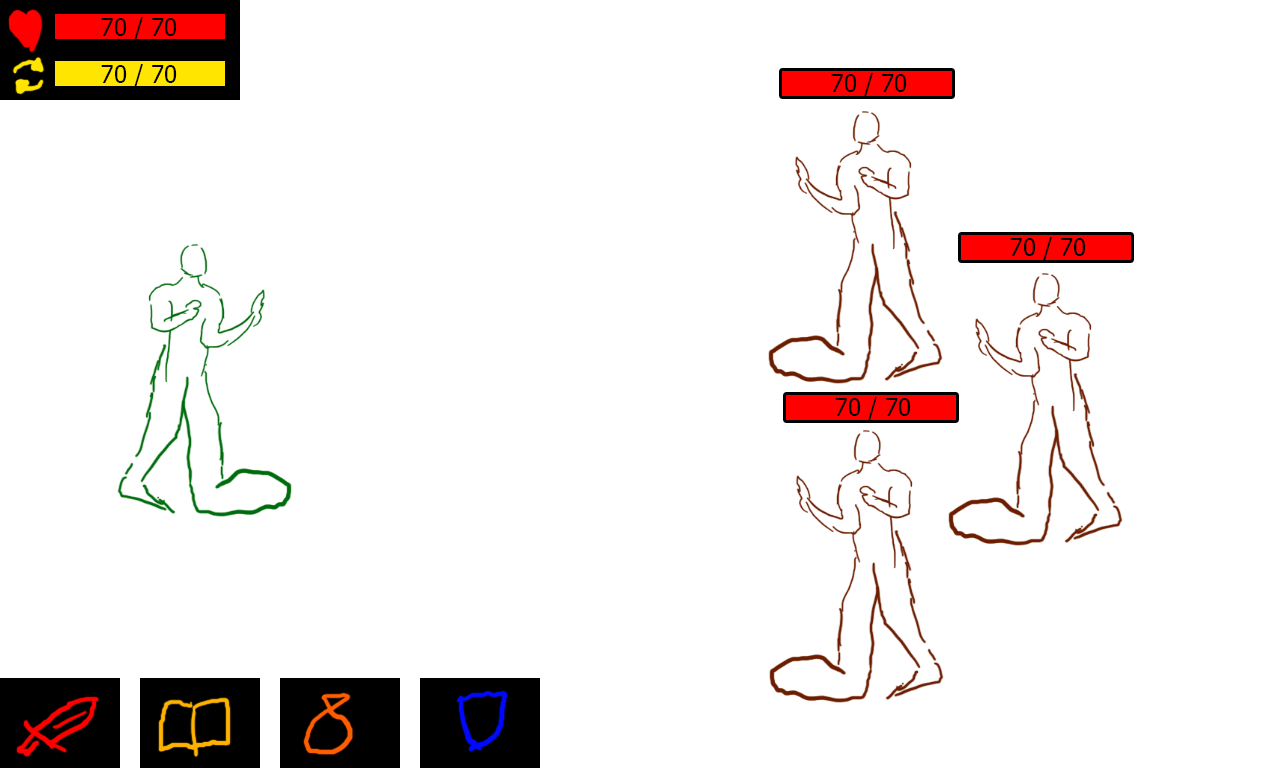
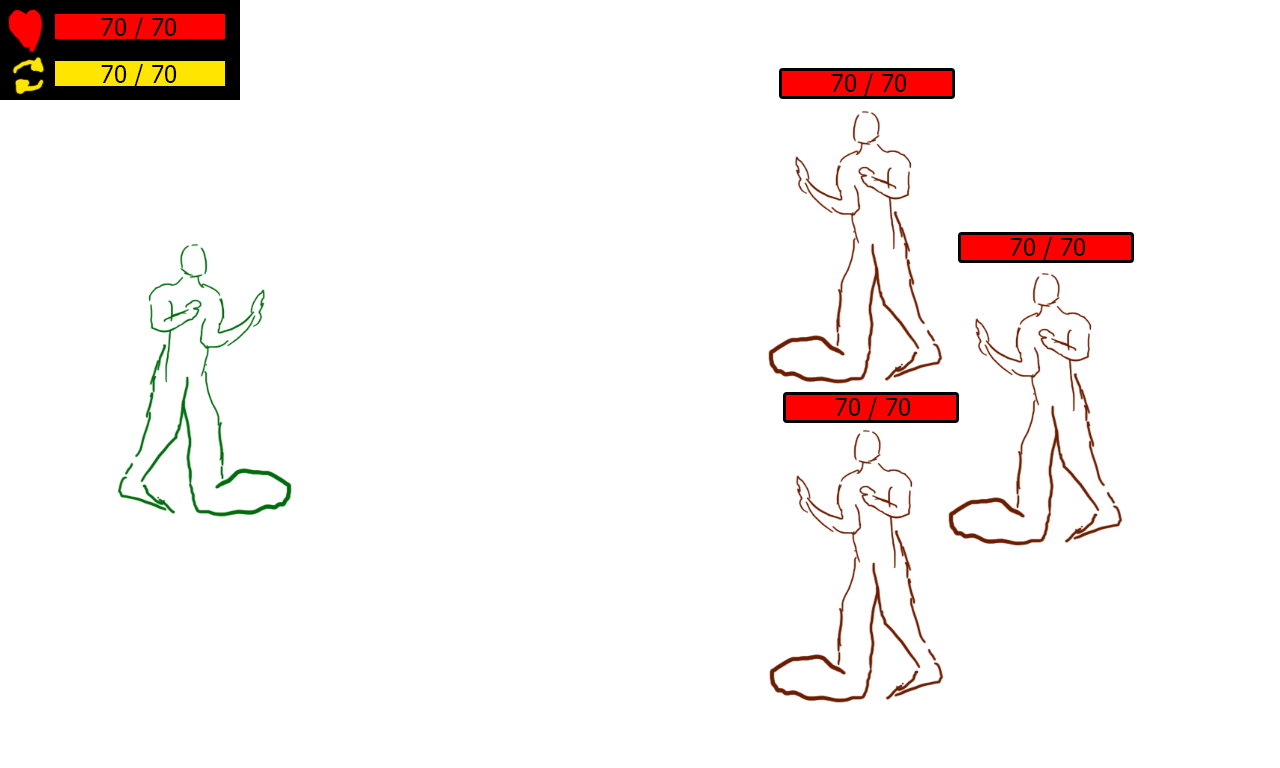
battle entity placement

Changed region(s): [[0.0, 0.875, 0.4375, 1.0]]

diff --git a/js/scenes/combat.js b/js/scenes/combat.js
@@ -1,9 +1,21 @@
 function combatScene() {
 	this.bg = new sprite( 'mock/fight.png' );
-	this.entities = [new dialogue('Lorem ipsum dolor sit amet, consetetur sadipscing elitr, sed diam nonumy eirmod tempor invidunt ut labore et dolore magna aliquyam erat, sed diam voluptua. At vero eos et accusam et justo duo dolores et ea rebum. Stet clita kasd gubergren, no sea takimata sanctus est Lorem ipsum dolor sit amet.',[
-		{ text: "ja", callback: function() { console.log('ja'); }},
-		{ text: "nein", callback: function() { console.log('nein'); }}
-	])];
+	this.entities = [
+			new HeroContainer(200,380),
+			new Enemy( 870, 200),
+			new Enemy(1100, 380),
+			new Enemy( 870, 560),
+
+			new spriteButton('img/ui/buttons.png', Rect.create(0,  0,120,90), Rect.create(120,  0,120,90), 0, 678, function() { console.log('attack') }),
+			new spriteButton('img/ui/buttons.png', Rect.create(0, 90,120,90), Rect.create(120, 90,120,90), 130, 678, function() { console.log('spell') }),
+			new spriteButton('img/ui/buttons.png', Rect.create(0,180,120,90), Rect.create(120,180,120,90), 260, 678, function() { console.log('item') }),
+			new spriteButton('img/ui/buttons.png', Rect.create(0,270,120,90), Rect.create(120,270,120,90), 390, 678, function() { console.log('defend') }),
+	]
+
+}
+
+combatScene.prototype.setEnemies = function( definitions ) {
+
 }
 
 combatScene.prototype = new scene();

diff --git a/js/ui/buttons.js b/js/ui/buttons.js
@@ -17,7 +17,7 @@ button.prototype.draw = function( ctx ) {
 /* Sprite button */
 
 function spriteButton( img, position, hover, x, y, callback, sound ) {
-	this.img = new sprite( img );
+	this.img = g[img];
 	this.position = position;
 	this.hover = hover;
 	this.sound = sound;
@@ -29,11 +29,11 @@ function spriteButton( img, position, hover, x, y, callback, sound ) {
 
 spriteButton.prototype.draw = function( ctx ) {
 	if( this.hover &&  this.area.inside( mouse )) {
-		this.img.draw( ctx,
+		ctx.drawImage( this.img,
 				this.hover.p1.x, this.hover.p1.y, this.hover.width(), this.hover.height(),
 				this.x, this.y, this.hover.width(), this.hover.height());
 	} else {
-		this.img.draw( ctx,
+		ctx.drawImage( this.img,
 				this.position.p1.x, this.position.p1.y, this.position.width(), this.position.height(),
 				this.x, this.y, this.position.width(), this.position.height());
 	}

diff --git a/js/entities/hero.js b/js/entities/hero.js
@@ -23,6 +23,18 @@ function Hero() {
 			mana: 12
 		}
 	}
+
+	this.center = function( ctx, x, y ) {
+		var w = 200; var h = 400;
+		ctx.fillStyle = 'purple';
+		ctx.fillRect(x-w/2, y-h/2, w, h);
+	}
 }
 
 var hero = new Hero();
+
+function HeroContainer(x, y) {
+	this.draw = function(ctx) {
+		hero.center(ctx, x, y);
+	}
+}

diff --git a/js/lib/vector.js b/js/lib/vector.js
@@ -28,8 +28,8 @@ function Rect( p1, p2 ) {
 	this.p2 = p2;
 }
 
-Rect.create = function(x1,y1,x2,y2) {
-	return new Rect( new V2( x1, y1 ), new V2( x2, y2 ));
+Rect.create = function(x,y,w,h) {
+	return new Rect( new V2( x, y ), new V2( x+w, y+h ));
 }
 
 Rect.prototype.collision = function( r ) {

diff --git a/js/entities/enemy.js b/js/entities/enemy.js
@@ -1,3 +1,11 @@
-/**
- * Created by Bediener on 14.11.2014.
- */
+function Enemy( x, y, definition ) {
+	this.x = x;
+	this.y = y;
+
+}
+
+Enemy.prototype.draw = function( ctx ) {
+	var w = 200; var h = 340;
+	ctx.fillStyle = 'darkorange';
+	ctx.fillRect(this.x-w/2, this.y-h/2, w, h);
+}

diff --git a/js/lib/graphic.js b/js/lib/graphic.js
@@ -3,7 +3,8 @@ var g = {
 			'mock/map.png',
 			'mock/char.png',
 			'mock/fight.png',
-            'mock/button.png'
+			'mock/button.png',
+			'img/ui/buttons.png'
 	],
 
 	add: function( url ) {
